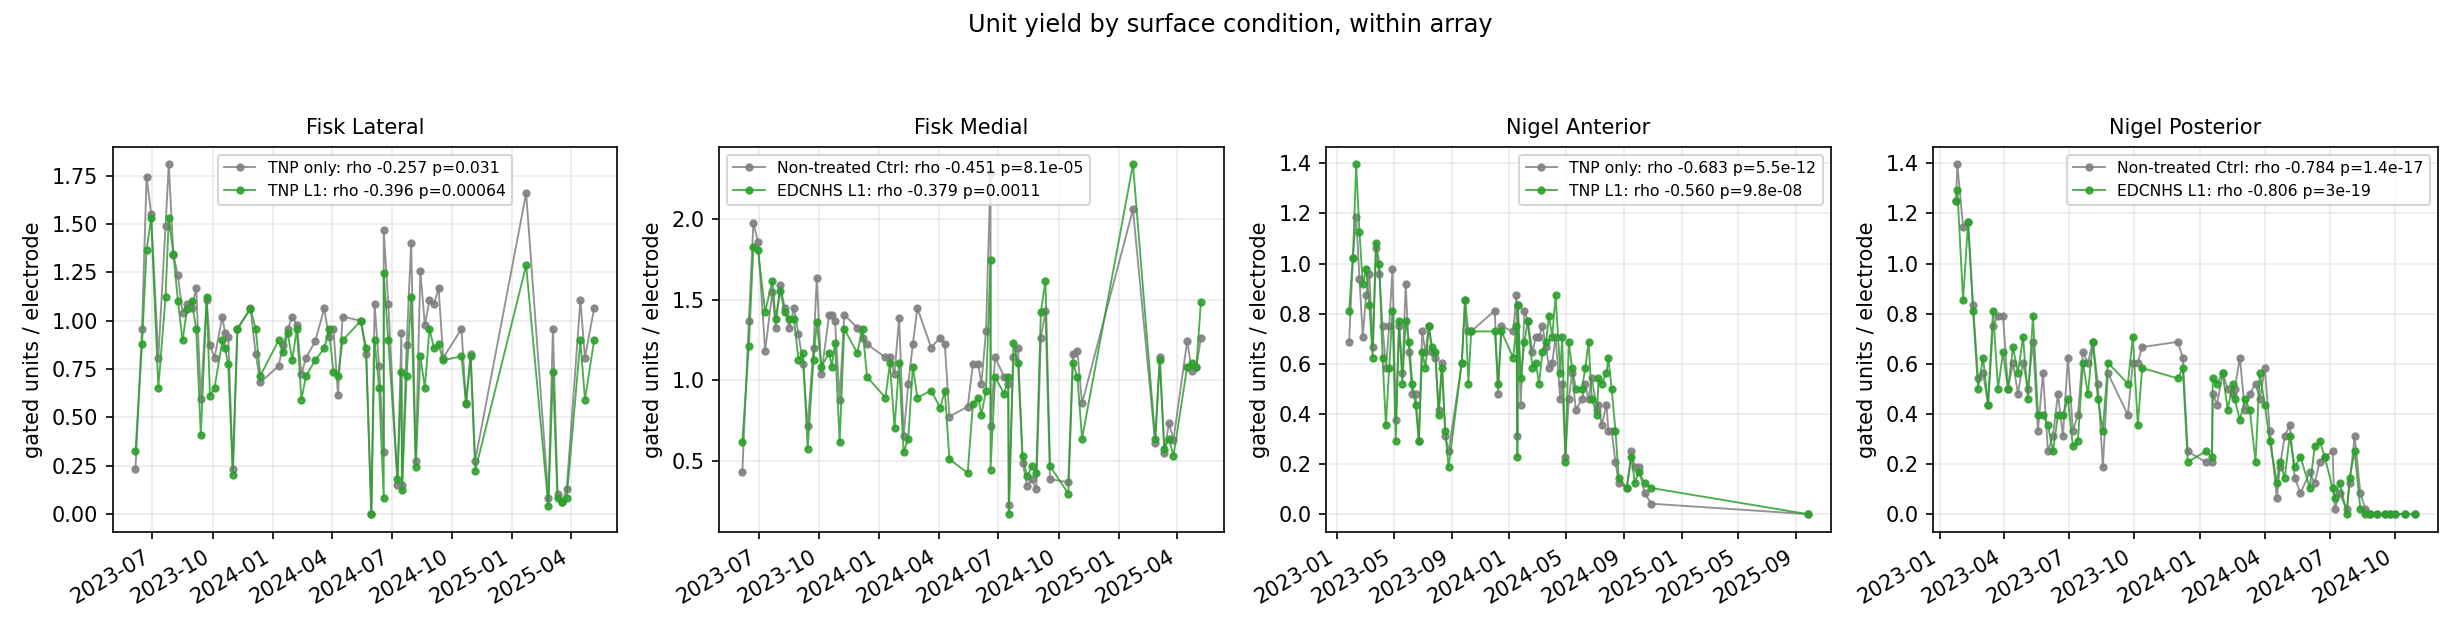
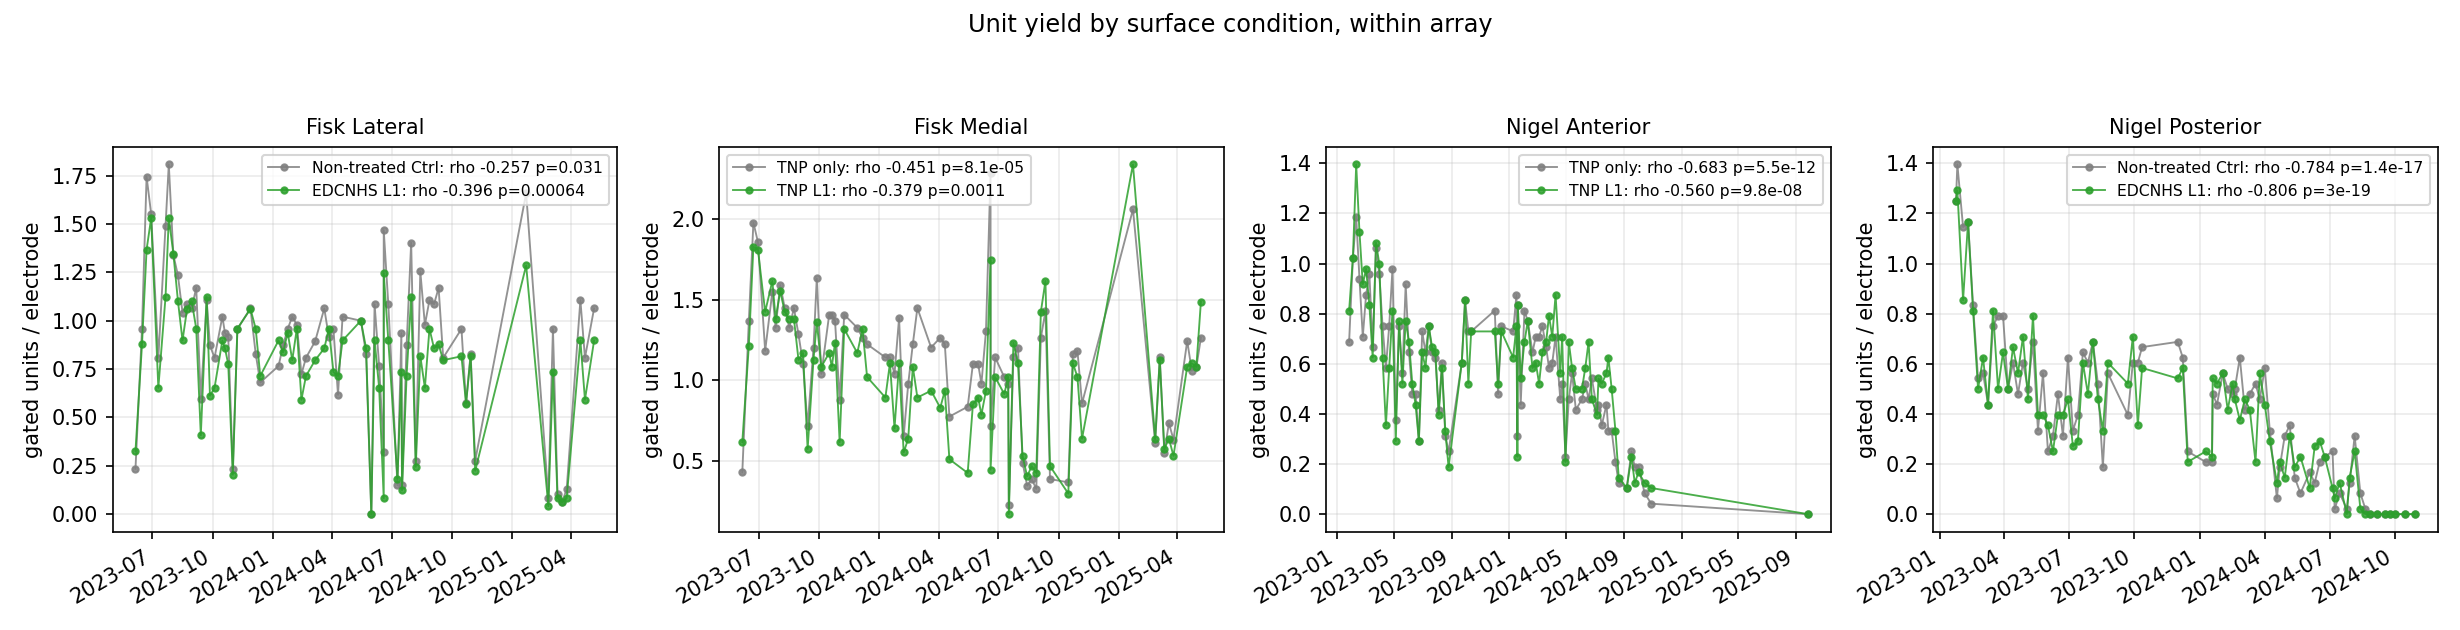
W-020 step 6 (R-024): stripe-conditioned variance analyses; W-020 done
On the D-014 map: Nigel L1 stripes equivalent within +/-0.041 log10
(TOST); Fisk reads -0.041 but its no-treatment row-parity control
reads -0.079 - spatial gradients, not coating; yield equivalent at
+/-5pp on all four arrays. Device axis 3.1x the treatment axis;
stripe residualization leaves rho unchanged (0.390 -> 0.391).
Surface figures regenerated with corrected Fisk family labels.
results/00-06 complete.

Changed region(s): [[0.0927, 0.2413, 0.2472, 0.3317], [0.3089, 0.2413, 0.4634, 0.3317]]

diff --git a/notebooks/scratch_variance_stripes.py b/notebooks/scratch_variance_stripes.py
@@ -1,0 +1,214 @@
+"""W-020 step 6: stripe-conditioned variance analyses (unblocked by D-014).
+
+With the stripe map ruled (D-014: col-parity stripes, even columns L1,
+Fisk families corrected), the parked analyses run on the per-channel
+max-P2P table and the yield indicator, Nigel + Fisk arrays only:
+
+1. STRIPE CONTRAST + TOST. Per (array, month) cell, the paired
+   within-cell contrast d = mean(L1 channels) - mean(non-L1) on
+   channel month-means (log10 uV; and active fraction for yield).
+   Equivalence is tested per array with TOST against two bounds:
+   +/-0.041 log10 (the smallest whole-array coating effect measured in
+   R-017, ofs 1.08x -> what the L1 literature claims should be there)
+   and +/-0.10 log10 (the R-017 legacy-metric effect, 1.26x). The
+   row-parity split of the same channels is the KNOWN-NULL control -
+   no treatment runs along rows.
+2. CONDITION-VS-TETHER. The stripe-contrast SD against the same-month
+   between-array (pedestal) contrast from the main analysis: how large
+   is the treatment axis relative to the device axis it is nested in?
+3. STRIPE-RESIDUALIZED COMPONENTS. vS and rho for the Nigel/Fisk
+   subset with and without removing per-(array, month, stripe-group)
+   means - does conditioning on treatment change the variance verdict?
+4. SPILLOVER EXPOSURE (structural statement, not an estimate): stripes
+   alternate single CMP columns at 400 um pitch, so EVERY control
+   electrode is adjacent to a treated column. The within-array
+   contrast therefore estimates (treatment - spillover); phi itself
+   needs the histology radial bins (cross-repo, parked).
+
+Caveat carried from surface_conditions.md: col-parity contrasts ride
+on smooth col gradients; the gradient-corrected second-difference
+estimator lives in the surface pipeline. Here the row-parity control
+quantifies how much a no-treatment parity split moves on the same
+channels - read the stripe contrast against that yardstick.
+
+Output: results/06_stripe_conditioned.md + .csv
+Run: uv run python notebooks/scratch_variance_stripes.py
+"""
+
+from __future__ import annotations
+
+import sys
+import warnings
+from pathlib import Path
+
+import numpy as np
+import pandas as pd
+from scipy import stats
+
+warnings.filterwarnings("ignore")
+if hasattr(sys.stdout, "reconfigure"):
+    sys.stdout.reconfigure(encoding="utf-8", errors="replace")
+
+sys.path.insert(0, str(Path(__file__).resolve().parent))
+import scratch_variance_design as svd  # noqa: E402
+from scratch_surface_conditions import surface_map  # noqa: E402
+
+REPO = Path(__file__).resolve().parent.parent
+RES = REPO / "results"
+
+# shard `array` value -> CMP serial (Nigel by anatomy, Fisk by serial)
+SERIALS = {("Nigel", "Anterior"): "1025-001496",
+           ("Nigel", "Posterior"): "1025-001473",
+           ("Fisk", "SN1498"): "1025-001498",
+           ("Fisk", "SN1504"): "1025-001504"}
+# TOST equivalence bounds on log10 amplitude (see module docstring)
+BOUNDS_LOG = (0.041, 0.10)
+BOUNDS_YIELD = (0.05, 0.10)          # active-fraction points
+
+
+def stripe_labels() -> pd.DataFrame:
+    """channel_id -> stripe membership per (subject, array)."""
+    rows = []
+    for (sub, arr), serial in SERIALS.items():
+        d = surface_map(serial)[["channel_id", "col", "row", "has_l1",
+                                 "condition"]].copy()
+        d["subject"], d["array"] = sub, arr
+        d["row_even"] = d["row"] % 2 == 0   # the known-null axis
+        rows.append(d)
+    return pd.concat(rows, ignore_index=True)
+
+
+def cell_contrasts(t: pd.DataFrame, col: str, split: str
+                   ) -> pd.DataFrame:
+    """Per (array, month) paired contrast on channel month-means.
+
+    split: 'has_l1' (treatment axis) or 'row_even' (known-null axis).
+    """
+    cm = (t.groupby(["subject", "array", "month_post", "channel_id",
+                     split], observed=True)[col].mean().reset_index())
+    rows = []
+    for (sub, arr, m), g in cm.groupby(
+            ["subject", "array", "month_post"], observed=True):
+        a = g.loc[g[split], col]
+        b = g.loc[~g[split], col]
+        if len(a) < 6 or len(b) < 6:
+            continue
+        rows.append(dict(subject=sub, array=arr, month=m,
+                         d=a.mean() - b.mean(),
+                         n_a=len(a), n_b=len(b)))
+    return pd.DataFrame(rows)
+
+
+def tost(d: np.ndarray, bound: float) -> tuple[float, float, float]:
+    """Paired TOST across cells: mean, 90% CI half-width, p_equiv."""
+    n = len(d)
+    m, se = float(np.mean(d)), float(np.std(d, ddof=1) / np.sqrt(n))
+    p_lo = stats.t.sf((m + bound) / se, n - 1)     # H0: m <= -bound
+    p_hi = stats.t.sf(-(m - bound) / se, n - 1)    # H0: m >= +bound
+    p = max(p_lo, p_hi)
+    hw = stats.t.ppf(0.95, n - 1) * se             # 90% CI half-width
+    return m, hw, p
+
+
+def main() -> int:
+    RES.mkdir(exist_ok=True)
+    labs = stripe_labels()
+
+    # amplitude table (Nigel + Fisk only) and the yield table
+    ta = svd.load_table()
+    ta = ta[ta.subject.isin(["Nigel", "Fisk"])].merge(
+        labs, on=["subject", "array", "channel_id"], how="inner")
+    ty = svd.load_yield_table()
+    ty = ty[ty.subject.isin(["Nigel", "Fisk"])].merge(
+        labs, on=["subject", "array", "channel_id"], how="inner")
+    print(f"amplitude rows {len(ta)}, yield rows {len(ty)} "
+          f"(4 arrays, stripe-labelled)")
+
+    lines = ["# Analysis 6 - stripe-conditioned (D-014 map)", "",
+             "Paired within-(array,month) contrasts, channel "
+             "month-means; row-parity = known-null control on the "
+             "same channels. TOST bounds: amplitude +/-0.041 and "
+             "+/-0.10 log10 (R-017's smallest and legacy coating "
+             "effects); yield +/-0.05 and +/-0.10 active-fraction.",
+             ""]
+    recs = []
+
+    # --- 1: stripe contrast + TOST, per array -----------------------
+    for name, t, col, bounds in (("amplitude_log10", ta, "logamp",
+                                  BOUNDS_LOG),
+                                 ("yield_fraction", ty, "active",
+                                  BOUNDS_YIELD)):
+        for split, axis in (("has_l1", "stripe"),
+                            ("row_even", "row_control")):
+            cc = cell_contrasts(t, col, split)
+            for (sub, arr), g in cc.groupby(["subject", "array"],
+                                            observed=True):
+                d = g.d.to_numpy()
+                for bound in bounds:
+                    m, hw, p = tost(d, bound)
+                    recs.append(dict(metric=name, axis=axis,
+                                     subject=sub, array=arr,
+                                     n_cells=len(d), mean=m,
+                                     ci90_lo=m - hw, ci90_hi=m + hw,
+                                     bound=bound, p_equiv=p))
+                m, hw, p1 = tost(d, bounds[0])
+                _, _, p2 = tost(d, bounds[1])
+                lines.append(
+                    f"- {name} / {axis} / {sub} {arr}: "
+                    f"d={m:+.4f} [{m - hw:+.4f},{m + hw:+.4f}] "
+                    f"(n={len(d)} cells)  "
+                    f"p_equiv(+/-{bounds[0]})={p1:.3g}, "
+                    f"(+/-{bounds[1]})={p2:.3g}")
+        lines.append("")
+
+    # --- 2: condition vs tether -------------------------------------
+    # stripe-contrast SD across cells vs the between-array (pedestal)
+    # contrast SD on the same subjects/months, from the main machinery
+    cc = cell_contrasts(ta, "logamp", "has_l1")
+    cells = svd.cell_values(ta, "logamp")
+    ba = svd.sham_contrasts(cells, matched=False)
+    sd_stripe = float(cc.d.std(ddof=1))
+    sd_arr = float(ba[ba.design == "between_array"].d.std(ddof=1))
+    lines += [f"- condition-vs-tether (log10 amp, Nigel+Fisk): stripe-"
+              f"contrast SD {sd_stripe:.4f} vs between-array SD "
+              f"{sd_arr:.4f} -> device axis {sd_arr / sd_stripe:.1f}x "
+              f"the treatment axis", ""]
+    recs.append(dict(metric="amplitude_log10", axis="stripe_sd",
+                     subject="all", array="all", n_cells=len(cc),
+                     mean=sd_stripe))
+    recs.append(dict(metric="amplitude_log10", axis="between_array_sd",
+                     subject="all", array="all",
+                     n_cells=int((ba.design == "between_array").sum()),
+                     mean=sd_arr))
+
+    # --- 3: stripe-residualized components on the Nigel/Fisk subset --
+    c0 = svd.variance_components(ta, "logamp")
+    tr = ta.copy()
+    grp = ["array_uid", "month_post", "has_l1"]
+    tr["logamp"] = (tr.logamp
+                    - tr.groupby(grp, observed=True).logamp
+                    .transform("mean")
+                    + tr.groupby(["array_uid", "month_post"],
+                                 observed=True).logamp
+                    .transform("mean"))
+    c1 = svd.variance_components(tr, "logamp")
+    lines += [f"- components (Nigel+Fisk subset), raw vs stripe-"
+              f"residualized: vS {c0['vS']:.4f} -> {c1['vS']:.4f}, "
+              f"vE {c0['vE']:.4f} -> {c1['vE']:.4f}, "
+              f"rho {c0['rho']:.3f} -> {c1['rho']:.3f}", "",
+              "- spillover: stripes alternate single 400-um columns, "
+              "so every control electrode neighbours a treated "
+              "column; the stripe contrast estimates "
+              "(treatment - spillover). phi needs the histology "
+              "radial bins (cross-repo, parked)."]
+
+    pd.DataFrame(recs).to_csv(RES / "06_stripe_conditioned.csv",
+                              index=False)
+    (RES / "06_stripe_conditioned.md").write_text("\n".join(lines),
+                                                  encoding="utf-8")
+    print("\n".join(lines))
+    return 0
+
+
+if __name__ == "__main__":
+    raise SystemExit(main())

diff --git a/results/06_stripe_conditioned.md b/results/06_stripe_conditioned.md
@@ -1,0 +1,27 @@
+# Analysis 6 - stripe-conditioned (D-014 map)
+
+Paired within-(array,month) contrasts, channel month-means; row-parity = known-null control on the same channels. TOST bounds: amplitude +/-0.041 and +/-0.10 log10 (R-017's smallest and legacy coating effects); yield +/-0.05 and +/-0.10 active-fraction.
+
+- amplitude_log10 / stripe / Fisk SN1498: d=-0.0411 [-0.0504,-0.0318] (n=23 cells)  p_equiv(+/-0.041)=0.509, (+/-0.1)=1.24e-10
+- amplitude_log10 / stripe / Fisk SN1504: d=-0.0403 [-0.0556,-0.0251] (n=23 cells)  p_equiv(+/-0.041)=0.47, (+/-0.1)=4.73e-07
+- amplitude_log10 / stripe / Nigel Anterior: d=-0.0016 [-0.0146,+0.0114] (n=22 cells)  p_equiv(+/-0.041)=1.78e-05, (+/-0.1)=7.85e-12
+- amplitude_log10 / stripe / Nigel Posterior: d=+0.0039 [-0.0049,+0.0127] (n=21 cells)  p_equiv(+/-0.041)=2.42e-07, (+/-0.1)=1.66e-14
+- amplitude_log10 / row_control / Fisk SN1498: d=-0.0787 [-0.0877,-0.0696] (n=23 cells)  p_equiv(+/-0.041)=1, (+/-0.1)=0.000265
+- amplitude_log10 / row_control / Fisk SN1504: d=+0.0042 [-0.0081,+0.0165] (n=23 cells)  p_equiv(+/-0.041)=1.87e-05, (+/-0.1)=2.37e-12
+- amplitude_log10 / row_control / Nigel Anterior: d=-0.0139 [-0.0267,-0.0012] (n=22 cells)  p_equiv(+/-0.041)=0.000733, (+/-0.1)=6.5e-11
+- amplitude_log10 / row_control / Nigel Posterior: d=+0.0220 [+0.0106,+0.0335] (n=21 cells)  p_equiv(+/-0.041)=0.00482, (+/-0.1)=9.73e-11
+
+- yield_fraction / stripe / Fisk SN1498: d=-0.0121 [-0.0209,-0.0033] (n=23 cells)  p_equiv(+/-0.05)=1.02e-07, (+/-0.1)=1.54e-14
+- yield_fraction / stripe / Fisk SN1504: d=+0.0060 [-0.0069,+0.0189] (n=23 cells)  p_equiv(+/-0.05)=3.32e-06, (+/-0.1)=8.62e-12
+- yield_fraction / stripe / Nigel Anterior: d=+0.0009 [-0.0028,+0.0046] (n=22 cells)  p_equiv(+/-0.05)=1.44e-16, (+/-0.1)=7.68e-23
+- yield_fraction / stripe / Nigel Posterior: d=+0.0015 [-0.0007,+0.0037] (n=21 cells)  p_equiv(+/-0.05)=2.19e-20, (+/-0.1)=1.69e-26
+- yield_fraction / row_control / Fisk SN1498: d=-0.0081 [-0.0154,-0.0008] (n=23 cells)  p_equiv(+/-0.05)=7.84e-10, (+/-0.1)=1.3e-16
+- yield_fraction / row_control / Fisk SN1504: d=+0.0105 [+0.0035,+0.0175] (n=23 cells)  p_equiv(+/-0.05)=1.06e-09, (+/-0.1)=9.28e-17
+- yield_fraction / row_control / Nigel Anterior: d=+0.0020 [-0.0026,+0.0065] (n=22 cells)  p_equiv(+/-0.05)=1.34e-14, (+/-0.1)=6.67e-21
+- yield_fraction / row_control / Nigel Posterior: d=+0.0108 [+0.0031,+0.0184] (n=21 cells)  p_equiv(+/-0.05)=1.19e-08, (+/-0.1)=4.82e-15
+
+- condition-vs-tether (log10 amp, Nigel+Fisk): stripe-contrast SD 0.0386 vs between-array SD 0.1180 -> device axis 3.1x the treatment axis
+
+- components (Nigel+Fisk subset), raw vs stripe-residualized: vS 0.0587 -> 0.0582, vE 0.0360 -> 0.0360, rho 0.390 -> 0.391
+
+- spillover: stripes alternate single 400-um columns, so every control electrode neighbours a treated column; the stripe contrast estimates (treatment - spillover). phi needs the histology radial bins (cross-repo, parked).

diff --git a/nav/entries/R-024-stripe-conditioned-variance.md b/nav/entries/R-024-stripe-conditioned-variance.md
@@ -1,0 +1,47 @@
+---
+id: R-024
+type: result
+status: current
+title: Stripe TOST - Nigel equivalent within 10%, Fisk within 26% with gradients implicated; treatment conditioning does not move rho
+created: 2026-09-17
+actor: agent
+basis: recorded
+parent: P-03
+depends_on: [D-014, R-020]
+informs: [Q-006, W-003]
+source: [notebooks/scratch_variance_stripes.py, results/06_stripe_conditioned.md]
+---
+W-020 step 6 on the D-014-corrected stripe map. Paired within-
+(array, month) contrasts on channel month-means, mmp2p log10 uV and
+yield fraction; row-parity as the known-null control on the same
+channels; TOST bounds +/-0.041 log10 (R-017's smallest whole-array
+coating effect) and +/-0.10 (the legacy 1.26x effect).
+
+AMPLITUDE. Nigel: both arrays' L1-vs-neighbour contrasts are tiny
+(-0.002 / +0.004 log10) and EQUIVALENT even at the tight +/-0.041
+bound (p_equiv 2e-5 / 2e-7). Fisk: both arrays read d = -0.041 log10
+(L1 stripes ~9% lower), equivalent only at +/-0.10 - but the control
+exposes it: SN1498's NO-TREATMENT row-parity contrast is -0.079,
+nearly double its stripe contrast. A parity split of these arrays
+moves this much from spatial gradients alone, so Fisk's -0.041 is not
+attributable to coating. Consistent with the regenerated surface
+pipeline's gradient-corrected permutation: 0/168 significant on the
+treatment axis AND 0/168 on the control axis.
+
+YIELD. All four arrays equivalent at +/-0.05 active-fraction
+(p_equiv <= 1e-6); row controls fire at the same small scale as the
+stripe contrasts (gradients again).
+
+CONDITION-VS-TETHER: stripe-contrast SD 0.039 vs between-array
+(pedestal) SD 0.118 - the device axis is 3.1x the treatment axis.
+STRIPE RESIDUALIZATION: vS 0.0587 -> 0.0582, rho 0.390 -> 0.391 on
+the Nigel/Fisk subset - conditioning on treatment leaves the variance
+verdict untouched, closing the loop on R-020's no-residualization
+design decision.
+
+SPILLOVER: structural note only - alternating single 400-um columns
+put every control electrode adjacent to a treated column, so the
+stripe contrast estimates (treatment - spillover); phi needs the
+histology radial bins (cross-repo, still parked).
+
+W-020 is now complete: results/00-06 delivered.

diff --git a/docs/notes/variance_design.md b/docs/notes/variance_design.md
@@ -63,11 +63,31 @@ would need ~15–30× more animals at m = 48–96 electrodes per condition;
 the conservative clean-pair bound is ~14×, and the penalty grows with
 implant age."
 
-## Parked
+## Stripe-conditioned set (unblocked by D-014, delivered same day)
 
-Stripe-conditioned analyses (stripe residualization, TOST on stripe
-nulls, condition-vs-tether, spillover exposure) wait on the stripe map
-(Q-001/W-001). Spillover φ/λ could come from the histology radial bins
+`scratch_variance_stripes.py` → `results/06_stripe_conditioned.md`,
+nav R-024. On the owner-ruled map (SN1498 = EDCNHS-L1 vs Ctrl,
+SN1504 = TNP vs TNP-L1; even columns L1 from the side opposite the
+wire bundle):
+
+- **TOST**: Nigel's L1 stripes are equivalent to their neighbours
+  within ±0.041 log10 (~10%) on both arrays; Fisk reads −0.041 on
+  both arrays but its row-parity *no-treatment* control reads −0.079
+  on SN1498 — parity splits move that much from spatial gradients
+  alone, so Fisk is equivalent only at ±0.10 (~26%) and the −0.041 is
+  not attributable to coating. Yield: all four arrays equivalent at
+  ±5 pp. Matches the surface pipeline's gradient-corrected 0/168.
+- **Condition-vs-tether**: stripe SD 0.039 vs between-array SD 0.118 —
+  the device axis is 3.1× the treatment axis.
+- **Residualization loop closed**: removing stripe-group means changes
+  vS 0.0587 → 0.0582 and ρ 0.390 → 0.391 on the Nigel/Fisk subset;
+  the no-residualization design decision cost nothing.
+
+## Still parked
+
+Spillover φ/λ: alternating single 400-µm columns put every control
+electrode adjacent to a treated column, so stripe contrasts estimate
+(treatment − spillover); φ itself needs the histology radial bins
 (cross-repo, I.N.T.E.N.S.I.T.Y. pipeline).
 
 ## Related

diff --git a/nav/entries/W-020-variance-brief.md b/nav/entries/W-020-variance-brief.md
@@ -1,7 +1,7 @@
 ---
 id: W-020
 type: work
-status: active
+status: done
 title: Execute the within-array variance-analysis brief on the cohort in hand
 created: 2026-09-17
 actor: agent
@@ -9,6 +9,7 @@ basis: recorded
 parent: P-03
 hill: uphill
 depends_on: [Q-001]
+finished: 2026-09-17
 informs: [Q-006, R-017]
 source: [docs/notes/NHP_variance_analysis_brief.md, docs/notes/Shi_within_array_statistical_framework.docx, results/00_inventory.md]
 ---
@@ -43,5 +44,6 @@ Progress 2026-09-17: steps 1-5 DONE - R-020 (rho 0.24, x15-30),
 R-021 (yield rho 0.35, Fisk clean pair diverges MORE), R-022
 (divergence with implant age, MDE table), R-023 (legacy replication,
 between-subject SD 0.239 vs 0.227). results/00-05 delivered per the
-brief's contract. Only step 6 remains, parked on Q-001/W-001; note in
-docs/notes/variance_design.md.
+brief's contract. Step 6 unblocked by D-014 and delivered same day (R-024):
+results/00-06 complete. Only the histology-based spillover phi
+remains, cross-repo and outside this work item's scope.
